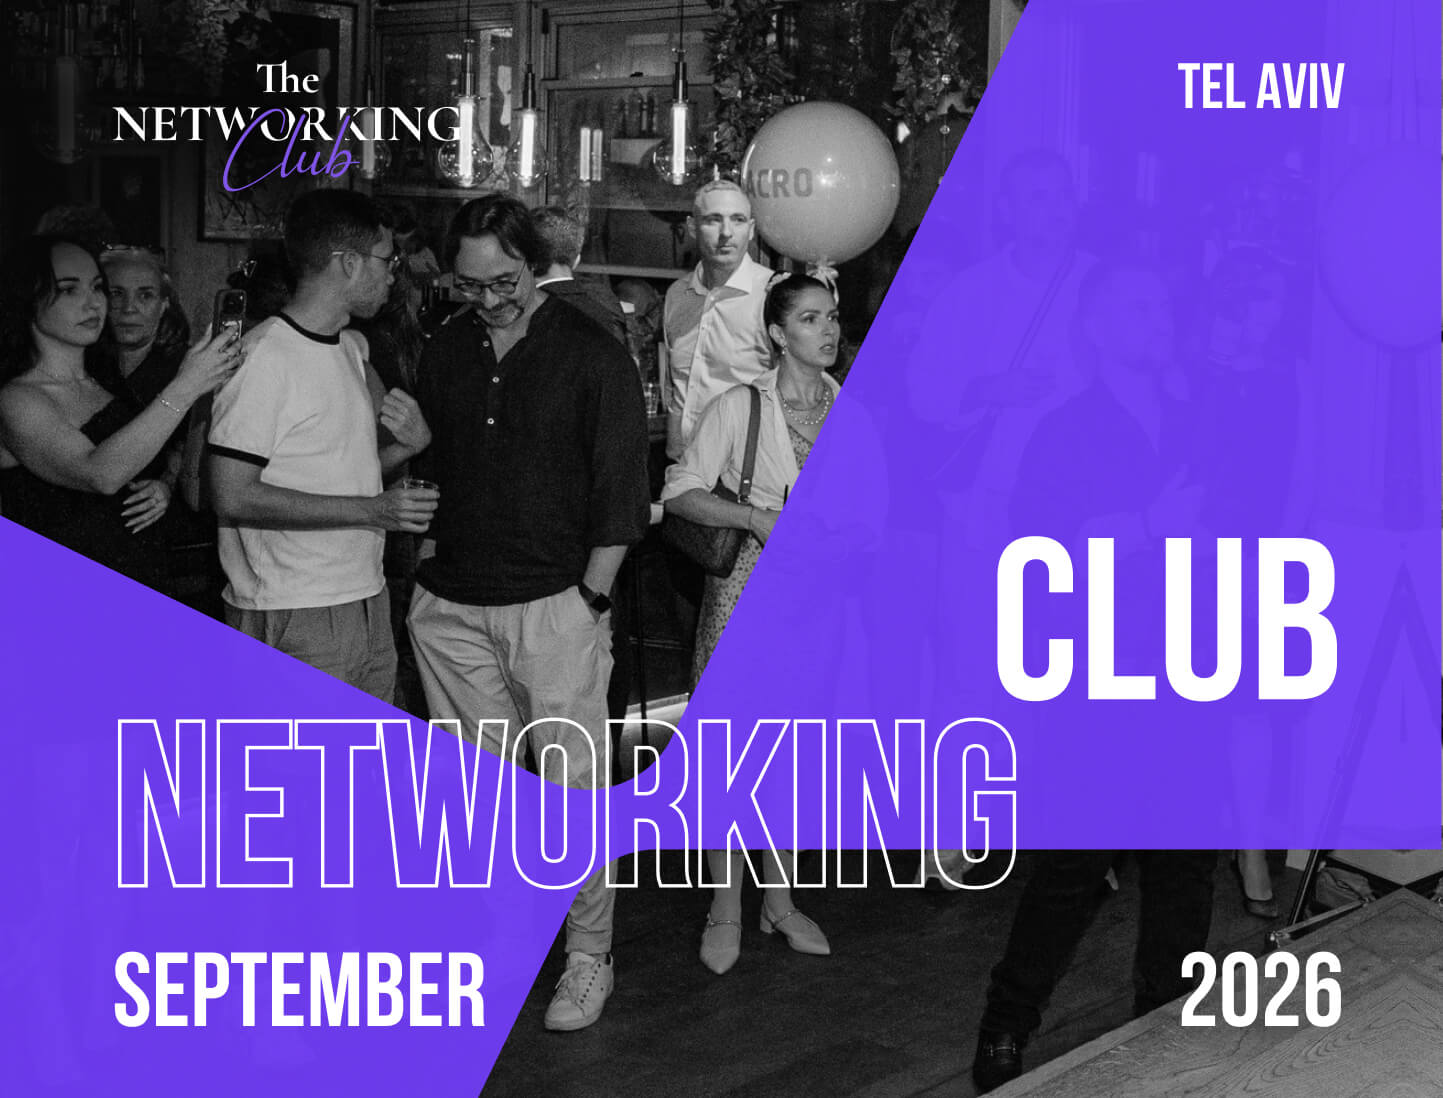
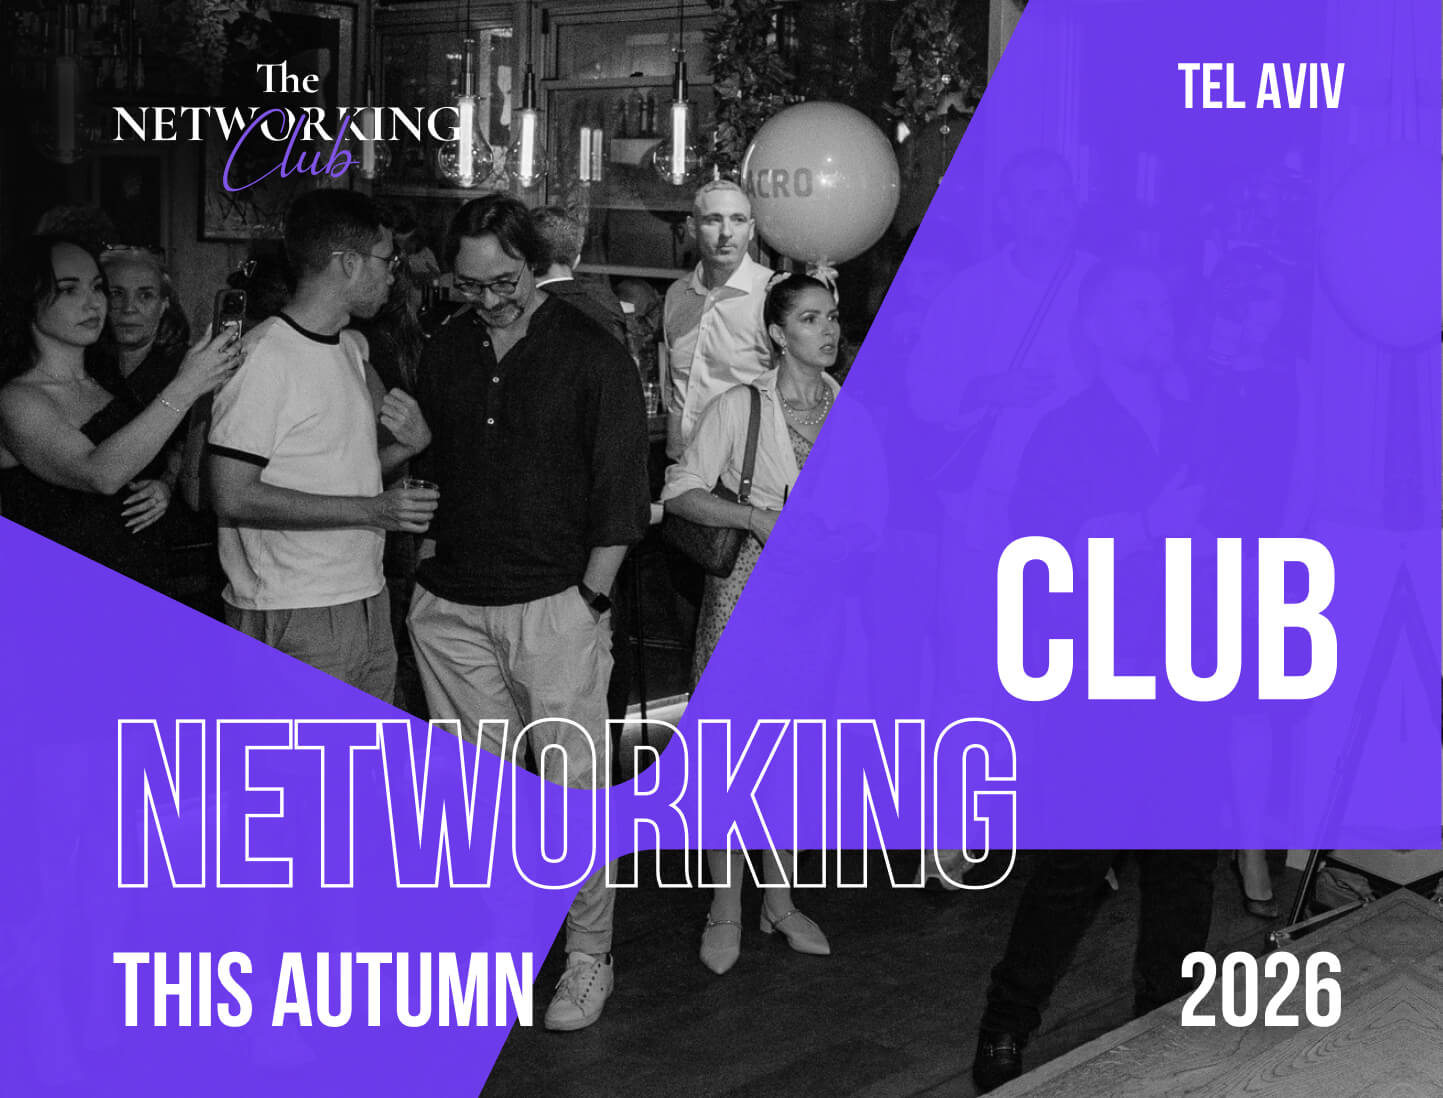
chore: update .DS_Store files and modify UpcomingEvents component
- Cleaned up .DS_Store files across various directories for better version control.
- Updated event meta information and image URL in UpcomingEvents component to reflect seasonal changes.

Changed region(s): [[0.0624, 0.867, 0.3742, 0.9599]]

diff --git a/src/components/UpcomingEvents.jsx b/src/components/UpcomingEvents.jsx
@@ -6,11 +6,11 @@ const EVENTS = [
   {
     tag: 'Upcoming · Open registration soon',
     title: 'Networking Club',
-    meta: 'October 2026 · Tel Aviv',
+    meta: 'This autumn · Tel Aviv',
     description:
       '200+ founders, investors and business leaders in one room, structured to help you meet the right people — not just more people. (Included in Membership)',
     cta: 'Join the Waitlist',
-    image: encodeURI('/new/Networking Club.jpg'),
+    image: `${encodeURI('/new/Networking Club.jpg')}?v=autumn-2026`,
     imageAlt: 'Guests networking at a CardBook Networking Club evening',
   },
   {
